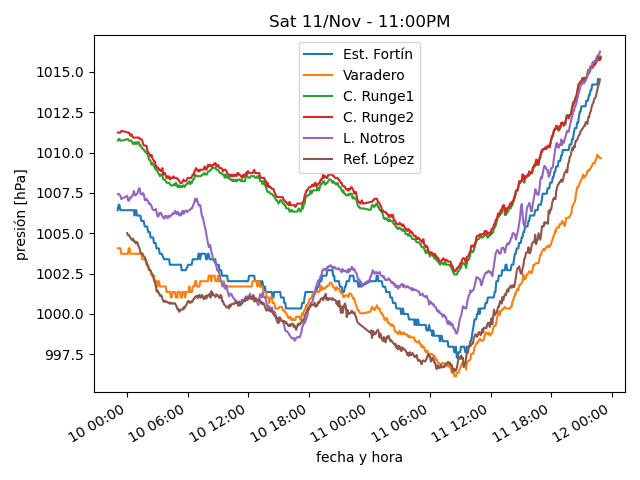
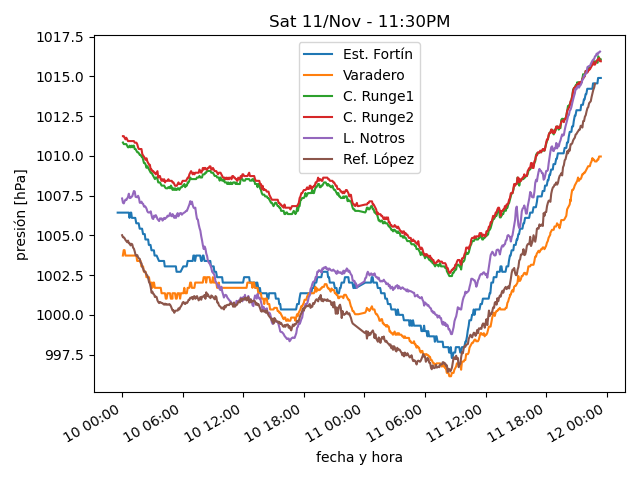
actualiza datos

diff --git a/estaciones/estacion1.html b/estaciones/estacion1.html
@@ -18,32 +18,32 @@
     </tr>
     <tr>
      <td class="stats_data">
-      10:38PM
+      11:24PM
      </td>
     </tr>
     <tr>
      <td class="stats_data">
-      0.3⁰C
+      0.0⁰C
      </td>
     </tr>
     <tr>
      <td class="stats_data">
-      -2.6⁰C
+      -3.0⁰C
      </td>
     </tr>
     <tr>
      <td class="stats_data">
-      80.5%
+      80.0%
      </td>
     </tr>
     <tr>
      <td class="stats_data">
-      1014.56hPa
+      1014.9hPa
      </td>
     </tr>
     <tr>
      <td class="stats_data">
-      14.4/24.9 km/hr WNW
+      13.5/24.1 km/hr WNW
      </td>
     </tr>
     <tr>

diff --git a/estaciones/estacion2.html b/estaciones/estacion2.html
@@ -18,32 +18,32 @@
     </tr>
     <tr>
      <td class="stats_data">
-      10:54PM
+      11:24PM
      </td>
     </tr>
     <tr>
      <td class="stats_data">
-      1.8⁰C
+      2.4⁰C
      </td>
     </tr>
     <tr>
      <td class="stats_data">
-      1.2⁰C
+      0.9⁰C
      </td>
     </tr>
     <tr>
      <td class="stats_data">
-      95.1%
+      90.1%
      </td>
     </tr>
     <tr>
      <td class="stats_data">
-      1019.13hPa
+      1019.44hPa
      </td>
     </tr>
     <tr>
      <td class="stats_data">
-      34.9/43.4 km/hr NW
+      41.8/48.9 km/hr NW
      </td>
     </tr>
     <tr>

diff --git a/estaciones/estacion4.html b/estaciones/estacion4.html
@@ -18,32 +18,32 @@
     </tr>
     <tr>
      <td class="stats_data">
-      10:54PM
+      11:24PM
      </td>
     </tr>
     <tr>
      <td class="stats_data">
-      -0.7⁰C
+      -0.3⁰C
      </td>
     </tr>
     <tr>
      <td class="stats_data">
-      -1.2⁰C
+      -0.9⁰C
      </td>
     </tr>
     <tr>
      <td class="stats_data">
-      96.0%
+      95.2%
      </td>
     </tr>
     <tr>
      <td class="stats_data">
-      1012.84hPa
+      1012.94hPa
      </td>
     </tr>
     <tr>
      <td class="stats_data">
-      1.8/3.6 km/hr SW
+      2.1/4.0 km/hr SW
      </td>
     </tr>
     <tr>

diff --git a/estaciones/estacion3.html b/estaciones/estacion3.html
@@ -18,17 +18,17 @@
     </tr>
     <tr>
      <td class="stats_data">
-      10:54PM
+      11:24PM
      </td>
     </tr>
     <tr>
      <td class="stats_data">
-      -0.9⁰C
+      -0.4⁰C
      </td>
     </tr>
     <tr>
      <td class="stats_data">
-      -1.1⁰C
+      -0.7⁰C
      </td>
     </tr>
     <tr>
@@ -38,12 +38,12 @@
     </tr>
     <tr>
      <td class="stats_data">
-      1004.23hPa
+      1004.34hPa
      </td>
     </tr>
     <tr>
      <td class="stats_data">
-      6.0/9.5 km/hr W
+      9.0/13.2 km/hr WNW
      </td>
     </tr>
     <tr>

diff --git a/estaciones/estacion5.html b/estaciones/estacion5.html
@@ -18,27 +18,27 @@
     </tr>
     <tr>
      <td class="stats_data">
-      10:50PM
+      11:20PM
      </td>
     </tr>
     <tr>
      <td class="stats_data">
-      -0.5⁰C
+      -0.4⁰C
      </td>
     </tr>
     <tr>
      <td class="stats_data">
-      -1.5⁰C
+      -1.6⁰C
      </td>
     </tr>
     <tr>
      <td class="stats_data">
-      93.0%
+      92.0%
      </td>
     </tr>
     <tr>
      <td class="stats_data">
-      1018.83hPa
+      1019.13hPa
      </td>
     </tr>
     <tr>
